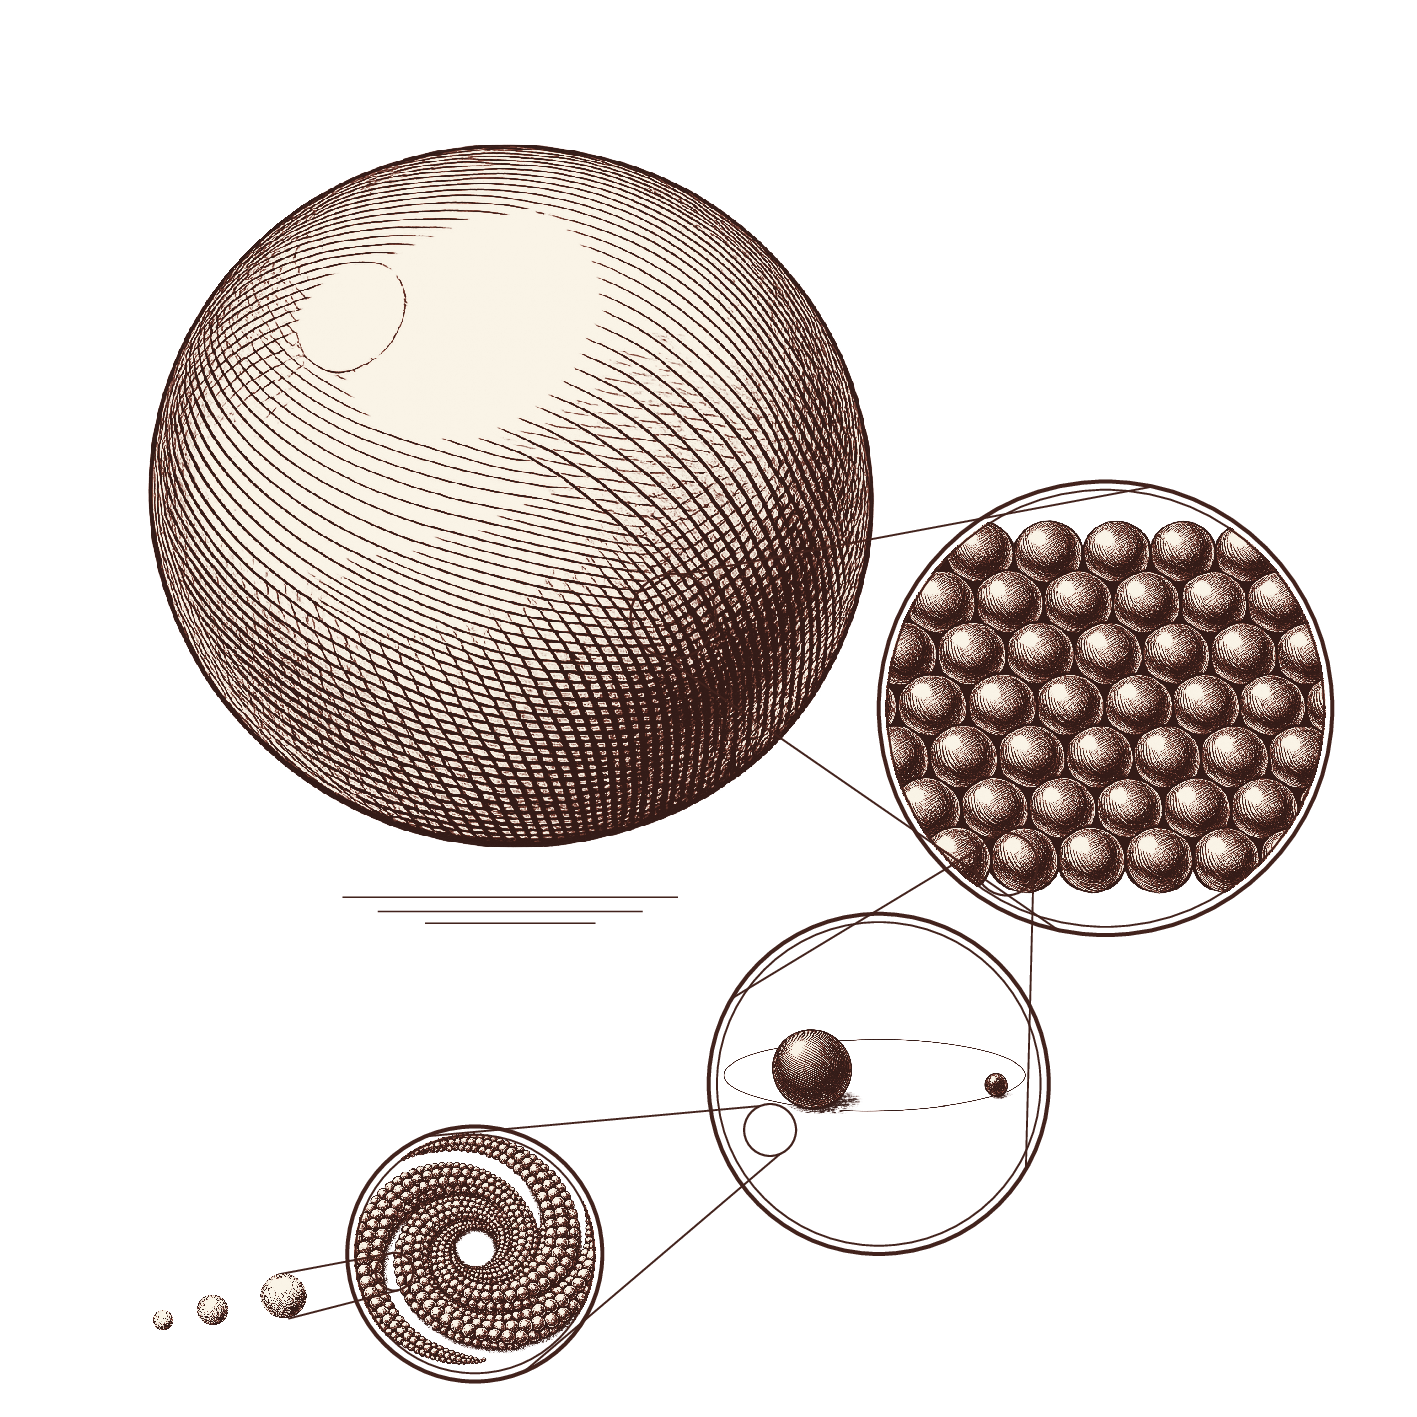
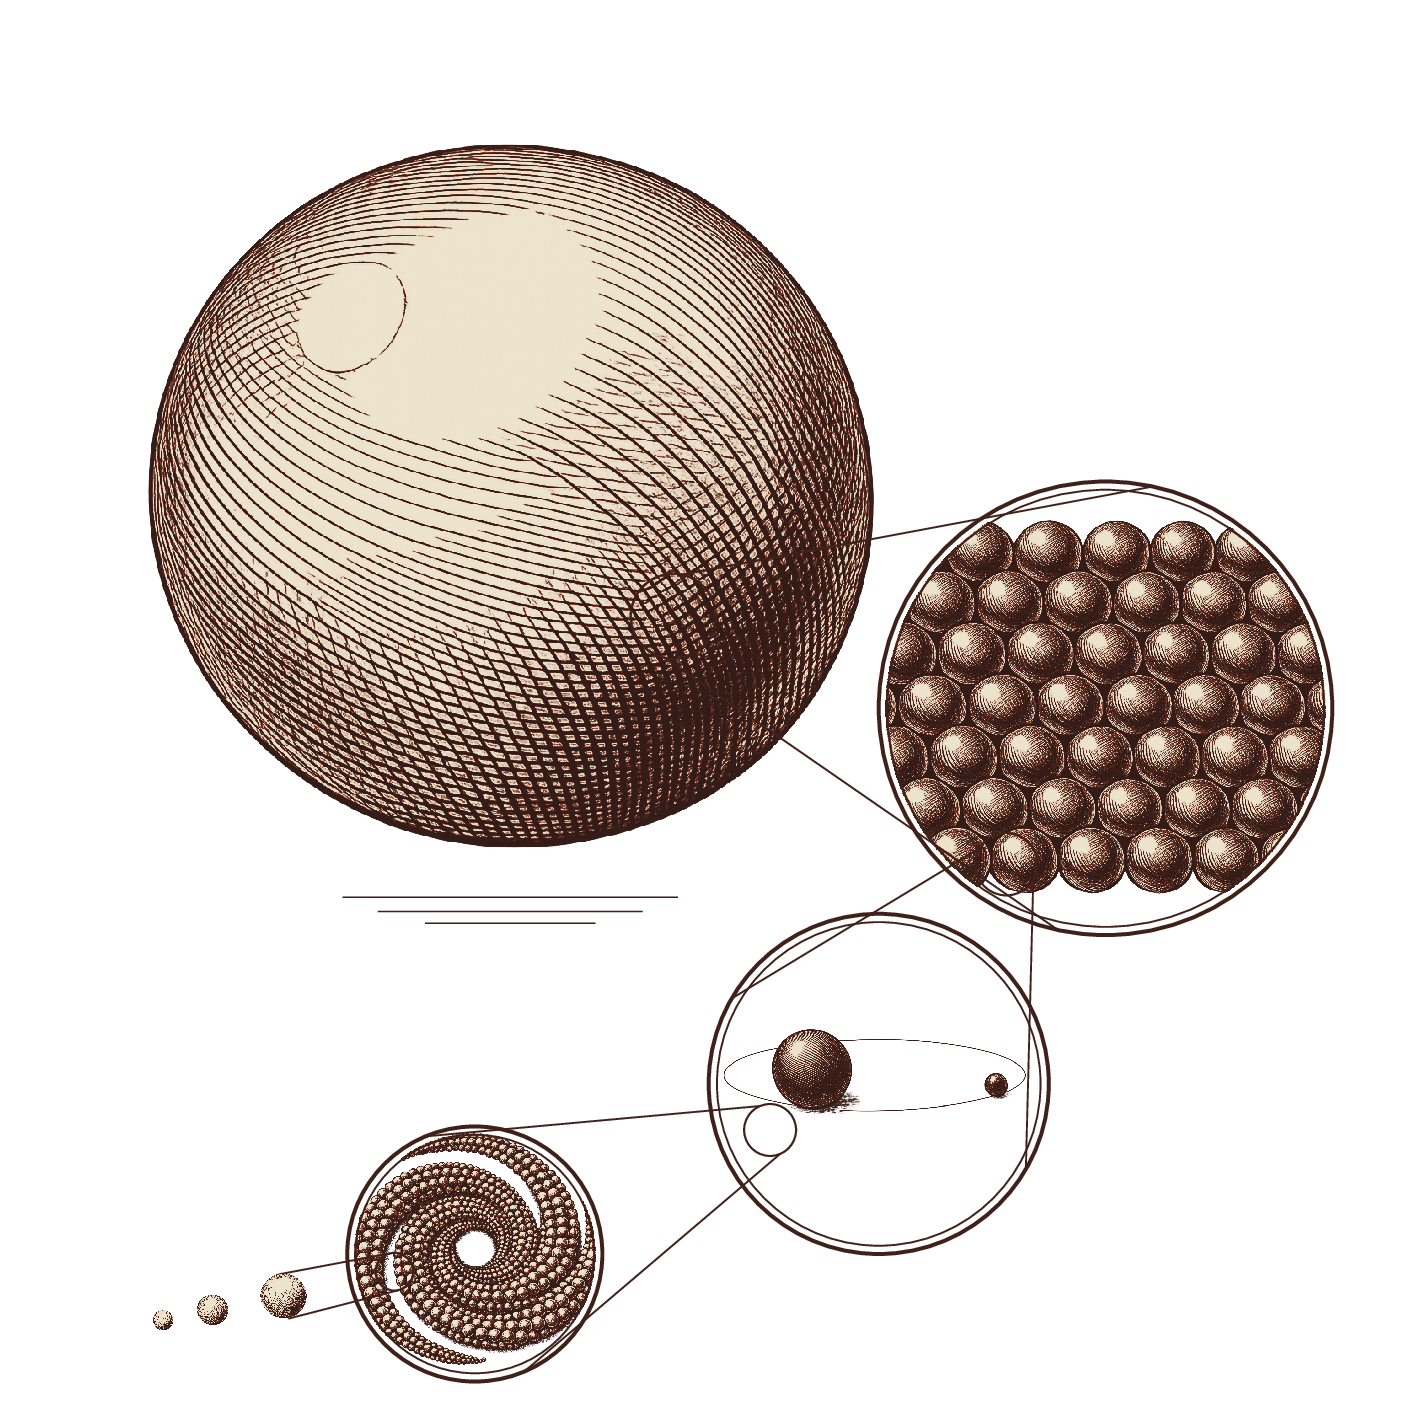
cover: the highlight endpoint comes down to the ground
Tuning pass on the sanguine ramp, and it found an error of mine rather than a
fault in the colour direction.

The number the first tuning was aimed at was wrong, twice. The reported
"arrival" figure was measured over a square crop of which 30.6% is bare ground
with no drawing in it -- diluted it read luminance 182, while over the drawing
only the first build was already 137 at saturation 0.326, past the target then
set for it. And the histogram was too coarse: "46.3% above 0.78 luminance" is
true, but inside that band the distribution is 1.9% / 1.9% / 3.5% / 38.9%
across 0.78-0.85, 0.85-0.90, 0.90-0.95, 0.95+. Almost all of the light mass is
effectively pure white, because the paper gaps inside the hatching are drawn as
opaque white rather than left transparent.

That makes the breakpoint -- the lever the first tuning leaned on -- nearly
inert: 0.50 -> 0.68 only redistributes the 3.8% living between 0.78 and 0.90,
moving drawing-only luminance 137 -> 131. Built and measured, not predicted.

The lever that matters is the highlight endpoint, because it owns 38.9% of the
drawing. At #FAF4E7, luminance 244 against a 228 ground, a third of the ball
was printing brighter than the paper around it. That was the milkiness, not the
midtone.

So HIGH comes down to #EDE4CE, the ground exactly -- one step past the floor
the earlier direction set, because that floor was wrong about what it
protected. It assumed the highlight band was the specular glare. It is not: the
[…]

diff --git a/cover/gen_sanguine.py b/cover/gen_sanguine.py
@@ -17,10 +17,43 @@ same grey average with a faint cast -- all the work, none of the fix. Putting
 a warm midtone in is the whole trick: it fills the tonal hole the drawing
 leaves, which is exactly where the eye lands when the detail disappears.
 
-Ramp endpoints are Fable's colour direction of 2026-08-20, adopted by the
-author. SHADOW and MID are deliberately desaturated: dark reds shift brown in
-CMYK, and a redder midtone turns maroon in POD print. HIGH sits just above the
-EDE4CE ground so the glare still reads as glare rather than as a hole.
+WHERE THE MIDTONE SITS MATTERS AS MUCH AS WHAT COLOUR IT IS. BREAK is the
+luminance at which the ramp turns: below it the drawing interpolates
+SHADOW->MID, above it MID->HIGH. The obvious 0.5 is wrong for this drawing.
+With the mass at <0.25 and >0.78, a 0.5 break carries the whole light-hatching
+population 60-80% of the way to near-white, so the arriving thumbnail colour is
+the midtone diluted into a milky taupe -- measured at #C4B5A7, luminance 182,
+against a target of ~165. At BREAK = 0.68 that same mass lands only a quarter
+to a third up the mid->high leg and arrives warm, while the true glare at
+0.95-1.0 still reaches HIGH, so the ball keeps its highlight and its shape.
+
+Ramp values are Fable's colour direction of 2026-08-20, tuned against the built
+result on the same day, and adopted by the author. They sit deliberately inside
+hard print limits, all of which are ceilings and not preferences:
+  - SHADOW #331B17 is ~240% total ink, at KDP's coverage ceiling. Do not darken:
+    a #2A1210-class shadow puts the dense inset hatching over TAC and it prints
+    as a brown-black slab.
+  - MID is one notch deeper and redder than the screen ideal on purpose. POD
+    comes back browner and darker than screen; that shift is already priced in.
+    Do NOT correct back toward red after seeing a proof or the reprint chases
+    its own tail. Floor: value >= ~45%, saturation <= ~65%.
+  - HIGH IS THE GROUND, and this is the whole point rather than a coincidence.
+    38.9% of the drawing sits at luminance 0.95+ -- not the specular glare,
+    which is a small unhatched disc, but the paper gaps *inside* the hatching,
+    drawn as opaque white. Pinning that mass to anything brighter than the
+    ground prints a second, whiter "paper" inside the ball, which is what made
+    it read as a glowing pale mushroom at thumbnail size. At HIGH = the ground
+    the gaps ARE the paper, as in a real steel engraving, and the ball becomes
+    a warm solid object. The glare survives because it reads by local contrast
+    against surrounding line work, not by absolute luminance above the page.
+    The floor is the ground itself: a step below (#E4D9BE was tested) inverts
+    the highlight into ink where the drawing says paper, the glare dies and the
+    tint drifts to a dead olive. If the proof shows dot gain closing the
+    hatching gaps, the fix is NOT darker ink -- raise HIGH a half step to
+    #F1E9D6 and rebuild. That is the only sanctioned fallback.
+  - BREAK 0.68 is the ask, 0.70 the tolerance, 0.72 the wall. Past the wall the
+    paper gaps inside the hatching tint so heavily that the plate reads as
+    printed on toned stock and the engraving identity dies.
 
 Run from cover/:  python gen_sanguine.py
 """
@@ -29,7 +62,8 @@ import os
 import numpy as np
 from PIL import Image
 
-SHADOW, MID, HIGH = "331B17", "7E4437", "FAF4E7"
+SHADOW, MID, HIGH = "331B17", "874531", "EDE4CE"
+BREAK = 0.68
 HERE = os.path.dirname(os.path.abspath(__file__))
 MASTER = os.path.join(HERE, "cover_recursive_ball.png")
 DERIVATIVE = os.path.join(HERE, "cover_recursive_ball_sanguine.png")
@@ -45,14 +79,32 @@ lum = (0.299 * a[..., 0] + 0.587 * a[..., 1] + 0.114 * a[..., 2]) / 255.0
 
 s, m, h = rgb(SHADOW), rgb(MID), rgb(HIGH)
 t = np.clip(lum, 0.0, 1.0)[..., None]
-out = np.where(t < 0.5, s + (m - s) * (t / 0.5), m + (h - m) * ((t - 0.5) / 0.5))
+out = np.where(t < BREAK,
+               s + (m - s) * (t / BREAK),
+               m + (h - m) * ((t - BREAK) / (1.0 - BREAK)))
 out = np.concatenate([np.clip(out, 0, 255), a[..., 3:]], axis=2).astype(np.uint8)
 Image.fromarray(out).save(DERIVATIVE)
 
 vis = a[..., 3] / 255.0 > 0.25
 print("master     : %s  %.1f%% of the frame is drawing" % (src.size, 100 * vis.mean()))
-print("ramp       : %s -> %s -> %s" % (SHADOW, MID, HIGH))
+print("ramp       : %s -> %s -> %s, break at %.2f" % (SHADOW, MID, HIGH, BREAK))
 print("tonal hole : %.1f%% below 0.25 luminance, %.1f%% above 0.78, %.1f%% between"
       % (100 * (lum[vis] < 0.25).mean(), 100 * (lum[vis] > 0.78).mean(),
          100 * ((lum[vis] >= 0.25) & (lum[vis] <= 0.78)).mean()))
+
+# What the eye actually receives at thumbnail size. This is the number the
+# ramp is tuned against, so the generator reports it rather than leaving it to
+# be rediscovered: target ~#AC8570, luminance ~165, saturation ~0.24.
+ground = rgb("EDE4CE")
+alpha = (a[..., 3:] / 255.0)
+flat = out[..., :3] * alpha + ground * (1 - alpha)
+w = flat.shape[1]
+ball = flat[int(0.10 * w):int(0.62 * w), int(0.04 * w):int(0.56 * w)]
+small = np.asarray(Image.fromarray(ball.astype(np.uint8)).resize((36, 36), Image.LANCZOS),
+                   dtype=float).reshape(-1, 3)
+mean = small.mean(axis=0)
+mx, mn = small.max(axis=1), small.min(axis=1)
+sat = np.where(mx > 0, (mx - mn) / np.maximum(mx, 1), 0).mean()
+print("arrival    : optical mean #%02X%02X%02X  luminance %.1f  saturation %.3f"
+      % (int(mean[0]), int(mean[1]), int(mean[2]), mean.mean(), sat))
 print("wrote      : %s" % os.path.basename(DERIVATIVE))

diff --git a/record/COVER_SANGUINE_2026-08-20.md b/record/COVER_SANGUINE_2026-08-20.md
@@ -82,6 +82,62 @@ by policy. One hue is a treatment, two would be decoration — `BOOK_COVER.md` n
   desaturated to survive that, so resist pushing it redder. A flat cream field across the whole wrap
   can band or show handling marks. The old check *"ivory right"* becomes **"parchment right,
   sanguine not maroon."**
-- The ramp endpoints are Fable's first recommendation, applied as given. A tuning pass on the three
-  endpoints against the built result has **not** been done and is the obvious next refinement if the
-  proof or a second look wants one.
+## The tuning pass (same day) — which found an error of mine
+
+The first build still read milky at 90 px, so the ramp was tuned against the built result. The pass
+is worth recording because **the number the tuning was aimed at was wrong, and it was my number.**
+
+*Both errors were mine, in the measurement handed to the colour direction:*
+1. The reported "arrival" figure was measured over a square crop of which **30.6 % is bare ground**
+   with no drawing in it. Diluted, it read luminance 182; measured over the drawing only, the first
+   build was already luminance 137, saturation 0.326 — past the target that was then set for it. The
+   target was unreachable by that metric: even at breakpoint 0.72 it only falls to 177.
+2. The histogram was too coarse. "46.3 % above 0.78 luminance" is true, but the distribution inside
+   that band is **1.9 % / 1.9 % / 3.5 % / 38.9 %** across 0.78–0.85, 0.85–0.90, 0.90–0.95, 0.95+.
+   Almost all of it is effectively pure white — the paper gaps *inside* the hatching are drawn as
+   opaque white, not left transparent.
+
+*What the correction changed.* The breakpoint, the lever the first tuning leaned on, is nearly
+inert: 0.50 → 0.68 only redistributes the 3.8 % of the drawing between 0.78 and 0.90, moving
+drawing-only luminance 137 → 131. Built and measured, not predicted. The lever that matters is the
+**highlight endpoint**, because it owns 38.9 % of the drawing: at `#FAF4E7` (luminance 244) against
+a 228 ground, a third of the ball was printing brighter than the paper around it.
+
+*The ruling, given the corrected data:* `HIGH` comes down to `#EDE4CE`, the ground exactly — one
+step past the floor the earlier direction had set, and the earlier floor was wrong about what it
+protected. It assumed the highlight band *was* the specular glare; it is not. The glare is a small
+unhatched disc that reads by local contrast against surrounding line work, not by absolute
+luminance above the page, and it survives intact. Tested one step below ground (`#E4D9BE`) the
+highlight inverts into ink where the drawing says paper, the glare dies, the tint drifts to a dead
+olive — so the floor is the ground itself. `MID` stays `#874531` and `BREAK` stays 0.68, not because
+either earns its keep on the numbers but because that is the combination that was looked at and
+judged good; sending an unjudged combination to a proof to save a line of config is a bad trade at
+the last cheap moment.
+
+*Final ramp:* `#331B17` → `#874531` → `#EDE4CE`, break 0.68.
+
+| arrival at thumbnail scale (diluted metric) | luminance | saturation |
+|---|---|---|
+| as built, grey | 188.2 | 0.023 |
+| sanguine v1 | 181.6 | 0.168 |
+| v2, midtone + breakpoint only | 178.3 | 0.184 |
+| **final, highlight at ground** | **171.2** | **0.214** |
+
+`gen_sanguine.py` now reports this arrival figure on every run, so the target stays checkable
+instead of remembered. Cover rebuilt 0 errors / 0 Overfull; barcode re-scanned and still decodes.
+
+*One consequence worth keeping.* With `HIGH` at the ground, nothing in the image is lighter than the
+page — which is what "paper plus one printer's ink" claims. The first build was quietly printing a
+second, whiter paper inside the ball. The measurement error did not just move a number; it exposed
+the cover violating its own conceit.
+
+## Open
+
+- **Proof read is now binary, and the fallback is named in advance.** The hatching gaps are 38.9 % of
+  the drawing and at ground level have no luminance headroom at all. On the proof: do the gaps
+  survive as gaps, or does dot gain fuse the ball's body into a flat brown field? Check the sparsest
+  hatching near the glare and the densest that must stay open — the ball-cluster inset and the
+  spiral. **Gaps open → ship. Gaps plugged → one rebuild at `HIGH` = `#F1E9D6`, and never darker
+  ink**, since `SHADOW` is already at the ~240 % coverage ceiling. Also check the specular disc reads
+  one clear step lighter than the hatched tone at arm's length, and that the ball's silhouette does
+  not dissolve into the ground in the thin-hatched top-left quadrant.

diff --git a/cover/BOOK_COVER.md b/cover/BOOK_COVER.md
@@ -62,7 +62,7 @@ What survives is smaller and harder than what the author walked in with: not pro
 - **Ground:** aged ivory paper, flat color **`#EDE4CE`**, full wrap (front, spine, back). *(Was `#F4EFE4` until 2026-08-20 — see "The sanguine plate" below.)*
 - **Ink:** near-black `#1A1A1A` for all type and rules. The title stays pure near-black: at thumbnail size its contrast against the ground is the cover's single largest asset and must not be spent on colour.
 - **Accent:** one oxblood rule `#6B2E2E` under the title, **1.8 pt** — not the original 1.1 pt, which was invisible below about 150 px and so contributed nothing to the only view most buyers ever get.
-- **The plate:** the artwork is printed in sanguine, a three-point ramp `#331B17` → `#7E4437` → `#FAF4E7`. Paper plus one ink; the drawing is unchanged.
+- **The plate:** the artwork is printed in sanguine, a three-point ramp `#331B17` → `#874531` → `#EDE4CE`, breaking at luminance **0.68**. Paper plus one ink; the drawing is unchanged. **The highlight endpoint is the ground colour exactly** — see "Tuning" below; nothing in the image is lighter than the page, which is what the engraved-plate conceit claims and what the first build was quietly violating.
 - **Frame:** thin double rule (0.6 pt + 1.6 pt, 4 pt apart) inset 0.28 in from trim on front and back, engraving-plate style. Nothing crosses it except the art may touch it.
 
 **Front, zones top to bottom:**
@@ -80,6 +80,15 @@ Two alternatives were built as real covers and rejected on the evidence: **loude
 **On identity:** this does not break the book's monochrome-engraving character. Paper plus one printer's ink is the oldest convention in engraving, and sanguine and red-chalk plates are period-correct; the cover reads as the same plate pulled in red ink. The interior stays grayscale by policy. One hue is a treatment; two would be decoration — do not add a second.
 
 **Print watch-list for the proof:** dark reds shift brown in CMYK, and the hatched field carries more ink than the old black-on-near-white did; the midtone is deliberately desaturated to survive that, so resist pushing it redder. A flat cream field over the whole wrap can band or show handling marks. The proof check formerly written *"ivory right"* now reads **"parchment right, sanguine not maroon."**
+
+### Tuning (same day, and it corrected an error of mine)
+The first sanguine build still read milky at 90 px. The number I had used to judge it was wrong twice over: it was measured across a square crop of which **30.6 % is bare ground**, and the histogram behind it was too coarse. The real distribution of the drawing's light mass is **1.9 % at 0.78–0.85, 1.9 % at 0.85–0.90, 3.5 % at 0.90–0.95, and 38.9 % at 0.95+** — almost all of it pinned at effectively pure white, because the paper gaps *inside* the hatching are drawn as opaque white rather than left transparent.
+
+Two consequences. Moving the ramp breakpoint is nearly inert: 0.50 → 0.68 only redistributes the 3.8 % living between 0.78 and 0.90 (drawing-only luminance 137 → 131). And the highlight endpoint owns **38.9 % of the drawing** — so with `HIGH` at `#FAF4E7` (luminance 244) against a ground of 228, a third of the ball was printing *brighter than the paper around it*. That was the milkiness, not the midtone.
+
+`HIGH` therefore comes down to the ground exactly. The specular glare survives because it reads by **local contrast against surrounding line work**, not by absolute luminance above the page — it is an unhatched disc, not a bright one. Tested one step below ground (`#E4D9BE`) the highlight inverts to ink where the drawing says paper, the glare dies and the tint drifts to a dead olive: **the floor is the ground itself.** Arrival at thumbnail scale improved from luminance 182 / saturation 0.168 to **171 / 0.214** on the diluted metric, and the ball reads as a solid warm object (`nbj/final_shelf.png`, `nbj/tune_highlight.png`).
+
+**Fallback, named in advance so the proof read is binary:** if dot gain closes the hatching gaps and the ball's body fuses into a flat brown field, the fix is **not darker ink** — raise `HIGH` a half step to `#F1E9D6` and rebuild. That is the only sanctioned remedy.
 4. Subtitle `A World With No Bottom` — italic, ~22 pt, centered beneath the art.
 5. Author `NIELS BONDE JENSEN` — caps, letterspaced +12%, ~19 pt, centered, 0.6 in above bottom trim.
 

diff --git a/cover/PROVENANCE.md b/cover/PROVENANCE.md
@@ -43,7 +43,8 @@ Then the wrap: drop `cover_recursive_ball.png` beside `cover_wrap.tex`, `\ARTFIN
 ## The sanguine derivative (2026-08-20)
 `cover_recursive_ball.png` is the master and is **never modified**. The wrap now includes
 `cover_recursive_ball_sanguine.png`, produced from it by `gen_sanguine.py`, which maps the
-drawing's luminance onto a three-point ramp `#331B17` → `#7E4437` → `#FAF4E7` and preserves alpha.
+drawing's luminance onto a three-point ramp `#331B17` → `#874531` → `#EDE4CE` breaking at 0.68,
+and preserves alpha.
 Delete the derivative and re-run the script to rebuild it; nothing else is needed, and the master's
 embedded generation provenance is untouched because the master is only ever read.
 
@@ -53,6 +54,20 @@ thumbnail size the hatching optically averages toward the ramp's midpoint, so a 
 reproduces the same grey average with a faint cast. The midtone is the whole mechanism. Ramp
 endpoints are Fable's colour direction of 2026-08-20, adopted by the author; the rationale, the two
 rejected alternatives and the print watch-list are in `BOOK_COVER.md` §"The sanguine plate".
+
+**The highlight endpoint is the ground colour, deliberately.** 38.9% of the drawing sits at
+luminance 0.95+ — not the specular glare, which is a small unhatched disc, but the paper gaps inside
+the hatching, drawn as opaque white. Any `HIGH` brighter than the ground prints a second, whiter
+"paper" inside the ball; at `#FAF4E7` (luminance 244) against a 228 ground it did exactly that, and
+that was the milkiness the first build was criticised for. At `HIGH` = ground the gaps *are* the
+paper, as in a real steel engraving. The glare survives on local contrast against the line work
+rather than on absolute luminance. One step below ground (`#E4D9BE`, tested) inverts the highlight
+into ink and kills the glare — the floor is the ground itself, and the only sanctioned fallback if
+dot gain closes the gaps on the proof is to raise `HIGH` a half step to `#F1E9D6` and rebuild.
+Never darker ink: `SHADOW` is already at the ~240% coverage ceiling.
+
+The generator reports the arrival colour it produces — the optical mean over the ball at thumbnail
+scale — so the tuning target stays checkable rather than remembered.
 
 Ground moved `#F4EFE4` → `#EDE4CE` in the same change, and the oxblood rule 1.1 pt → 1.8 pt.
 
